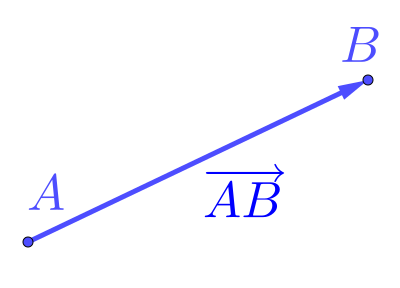
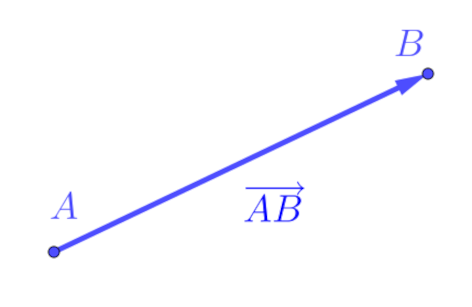
Vetores: redimensionando figuras da seção sobre segmentos orientados

diff --git a/src/Vetores/cap_vetor/cap_vetor.tex b/src/Vetores/cap_vetor/cap_vetor.tex
@@ -14,7 +14,7 @@ O conceito de \hl{\emph{segmento orientado}} é fundamental na definição de ve
 
 \begin{figure}[h]
   \centering
-  \includegraphics[max width=0.9\textwidth, max height=6in]{./cap_vetor/dados/fig_segmento/fig.png}
+  \includegraphics[width=3.5in]{./cap_vetor/dados/fig_segmento/fig.png}
   \caption{Um segmento $AB$ de uma reta $r$.}
   \label{cap_vetor_sec_segorien:fig:segmento}
 \end{figure}
@@ -30,7 +30,7 @@ O conceito de \hl{\emph{segmento orientado}} é fundamental na definição de ve
   
   \begin{figure}[h]
     \centering
-    \includegraphics[max width=0.9\textwidth, max height=6in]{./cap_vetor/dados/fig_ex_segmento/fig.png}
+    \includegraphics[width=3.75in]{./cap_vetor/dados/fig_ex_segmento/fig.png}
   \caption{Segmentos de diferentes normas e direções.}
   \label{cap_vetor_sec_segorien:fig:ex_segmento}
 \end{figure}
@@ -52,7 +52,7 @@ Mais precisamente, \hl{um segmento orientado $\overrightarrow{AB}$ é o segmento
 
 \begin{figure}[h]
   \centering
-  \includegraphics[max width=0.9\textwidth, max height=6in]{./cap_vetor/dados/fig_seg_orientado/fig.png}
+  \includegraphics[width=2.25in]{./cap_vetor/dados/fig_seg_orientado/fig.png}
   \caption{Um segmento orientado $\protect\overrightarrow{AB}$.}
   \label{cap_vetor_sec_segorien:fig:seg_orientado}
 \end{figure}
@@ -87,7 +87,7 @@ As noções de norma e de direção para segmentos estendem-se diretamente a seg
 
 \begin{figure}[h]
   \centering
-  \includegraphics[max width=0.9\textwidth, max height=6in]{./cap_vetor/dados/fig_segorien_sentido/fig.png}
+  \includegraphics[width=4.25in]{./cap_vetor/dados/fig_segorien_sentido/fig.png}
   \caption{Segmentos orientados $\protect\overrightarrow{AB}$ e $\protect\overrightarrow{CD}$ de mesmo sentido. Segmentos orientados $\protect\overrightarrow{EF}$ e $\protect\overrightarrow{GH}$ de sentidos opostos.}
   \label{cap_vetor_sec_segorien:fig:segorien_sentido}
 \end{figure}
@@ -113,7 +113,7 @@ Usamos a notação \hl{$\overrightarrow{AB} \sim \overrightarrow{CD}$} para indi
 
 \begin{figure}[H]
   \centering
-  \includegraphics[max width=0.9\textwidth, max height=6in]{./cap_vetor/dados/fig_segequipolentes/fig.png}
+  \includegraphics[width=2.25in]{./cap_vetor/dados/fig_segequipolentes/fig.png}
   \caption{Dois segmentos orientados equipolentes.}
   \label{cap_vetor_sec_segorien:fig:segequipolentes}
 \end{figure}
@@ -137,7 +137,7 @@ Com isso, \hl{dado um segmento orientado $\overrightarrow{AB}$, definimos a \emp
 
   \begin{figure}[H]
     \centering
-    \includegraphics[max width=0.9\textwidth, max height=6in]{./cap_vetor/dados/fig_exeresol_paralelogramo/fig.png}
+    \includegraphics[width=3.5in]{./cap_vetor/dados/fig_exeresol_paralelogramo/fig.png}
     \caption{Paralelogramo determinado por segmentos $AB$ e $AD$.}
     \label{cap_vetor_sec_segorien:fig:exeresol_paralelogramo}
   \end{figure}
@@ -237,7 +237,7 @@ Com isso, \hl{dado um segmento orientado $\overrightarrow{AB}$, definimos a \emp
 \end{exer}
 \begin{resp}
 
-  \includegraphics[max width=0.9\textwidth, max height=6in]{./cap_vetor/dados/fig_exer_segs_dif_normas/fig.png}
+  \includegraphics[width=3in]{./cap_vetor/dados/fig_exer_segs_dif_normas/fig.png}
 \end{resp}
 
 \begin{exer}\label{cap_vetor_sec_segorien:fig:exer_segs_nems}
@@ -245,7 +245,7 @@ Com isso, \hl{dado um segmento orientado $\overrightarrow{AB}$, definimos a \emp
 \end{exer}
 \begin{resp}
   
-  \includegraphics[max width=0.9\textwidth, max height=6in]{./cap_vetor/dados/fig_exer_segs_nems/fig.png}
+  \includegraphics[width=2in]{./cap_vetor/dados/fig_exer_segs_nems/fig.png}
 \end{resp}
 
 \begin{exer}\label{cap_vetor_sec_segorien:fig:exer_segs_hn_s}
@@ -253,7 +253,7 @@ Com isso, \hl{dado um segmento orientado $\overrightarrow{AB}$, definimos a \emp
 \end{exer}
 \begin{resp}
   
-  \includegraphics[max width=0.9\textwidth, max height=6in]{./cap_vetor/dados/fig_exer_segs_hn_s/fig.png}
+  \includegraphics[width = 2in]{./cap_vetor/dados/fig_exer_segs_hn_s/fig.png}
 \end{resp}
 
 \begin{exer}
